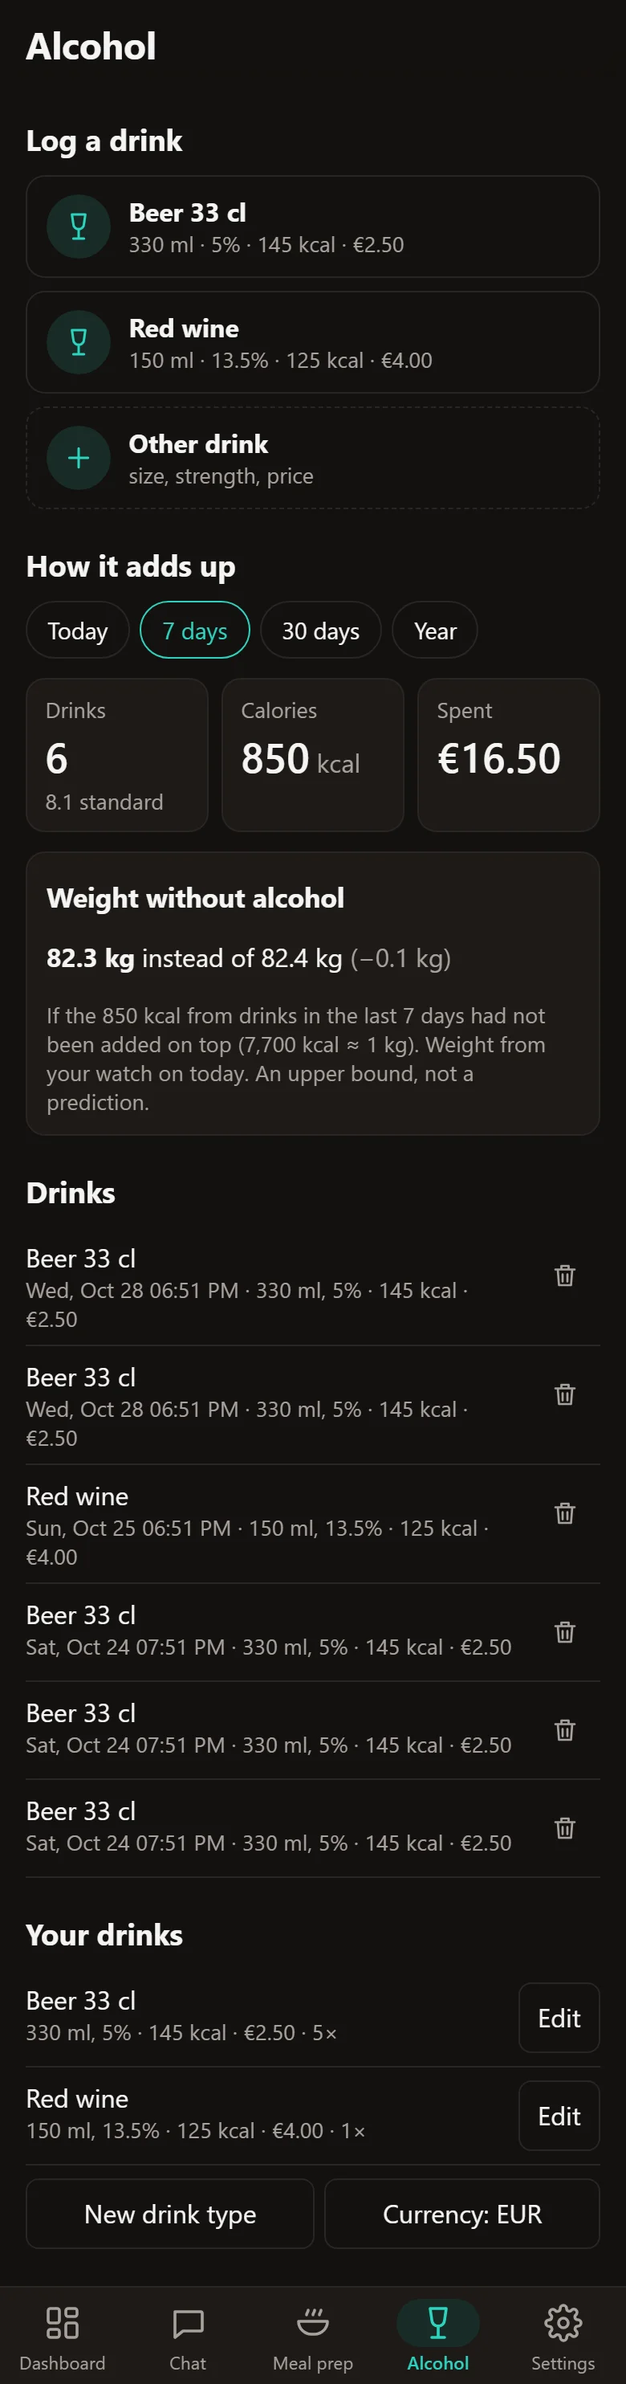
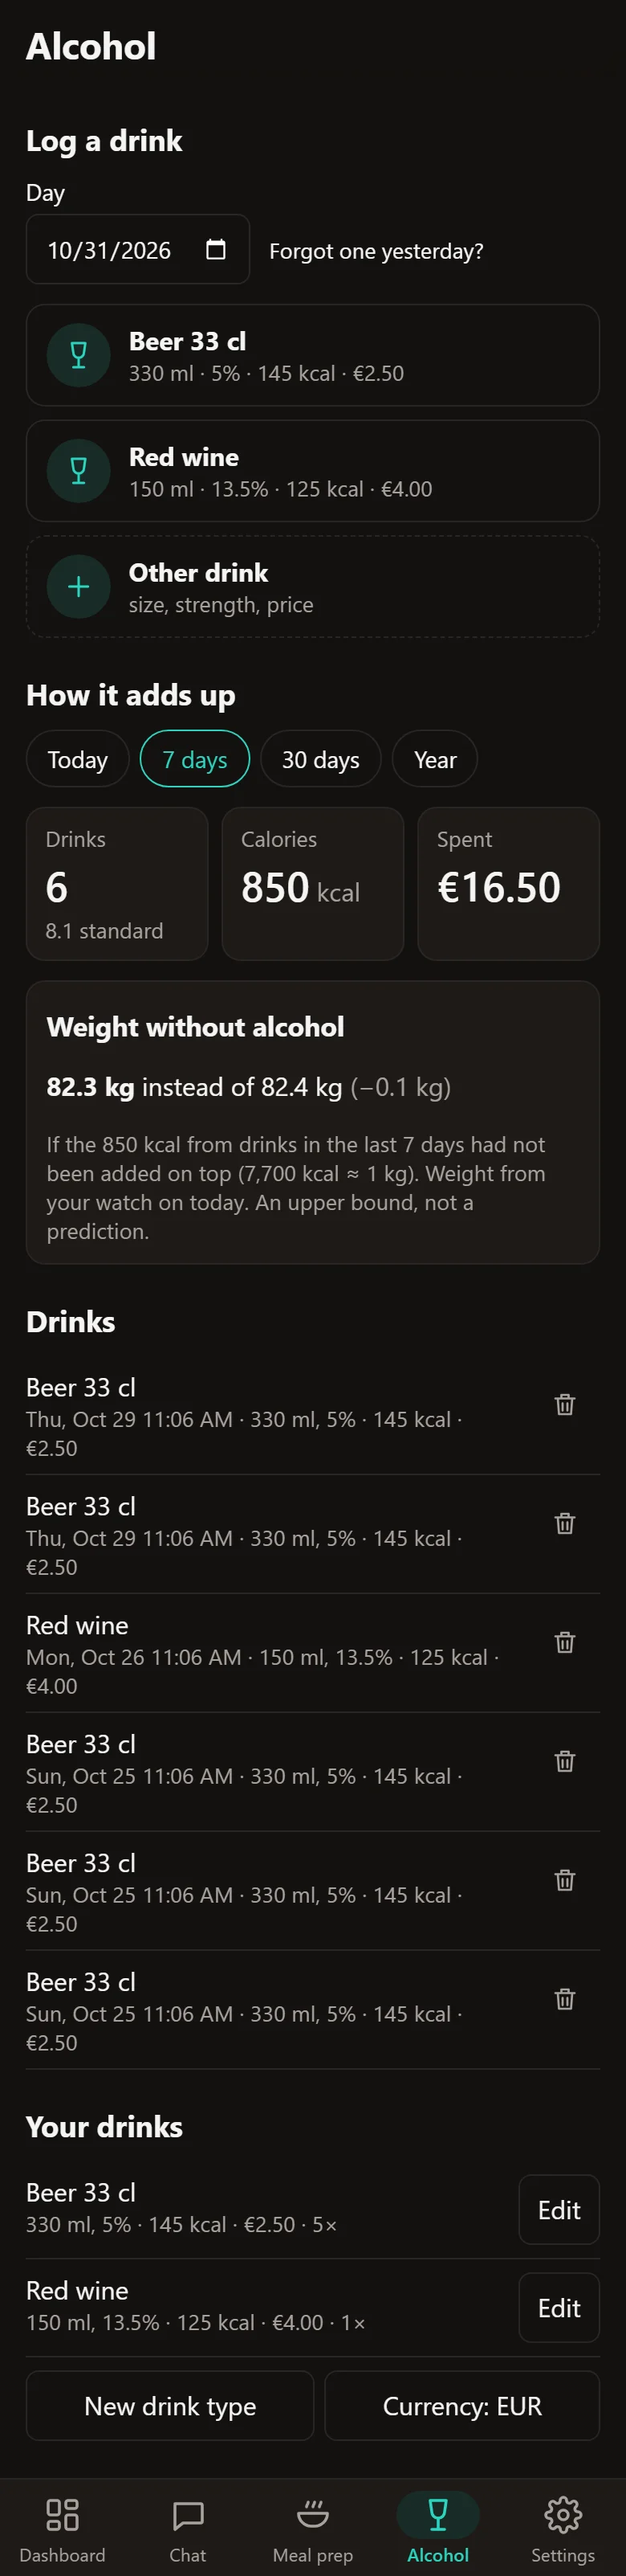
Alcohol: log a drink for an earlier day
A Day picker above the drink tiles (with a "Forgot one yesterday?" shortcut)
sets which day the one-tap tiles and Other drink log for. An earlier day
asks for a time (20:00 by default) and the buttons, labels and messages
name the day; picking one widens a "Today" list to 7 days so the drink shows.

diff --git a/src/screens/alcohol/AlcoholView.tsx b/src/screens/alcohol/AlcoholView.tsx
@@ -1,5 +1,5 @@
 import { useCallback, useEffect, useState, type FormEvent } from "react";
-import { addDays } from "../../core/tz";
+import { addDays, localDateTimeToMs } from "../../core/tz";
 import type { SqlDriver } from "../../db/driver";
 import { changeRunner, EditActions, fmtDay, fmtMoney, MsgLine, numOrNull, timeZone, today, type Msg } from "../../ui/common";
 import { StatTile } from "../../ui/charts";
@@ -39,6 +39,8 @@ type Period = (typeof PERIODS)[number]["key"];
 
 const kcal = (n: number) => Math.round(n).toLocaleString();
 const kg = (n: number) => n.toLocaleString(undefined, { minimumFractionDigits: 1, maximumFractionDigits: 1 });
+/** A drink logged for an earlier day lands at this time unless the owner sets another. */
+const EVENING = "20:00";
 const time = (ms: number) => new Date(ms).toLocaleTimeString(undefined, { hour: "2-digit", minute: "2-digit" });
 
 interface TypeDraft {
@@ -121,6 +123,16 @@ export function AlcoholView({ db, version, onChanged }: Props) {
   const [saveAsType, setSaveAsType] = useState(true);
   const [editing, setEditing] = useState<TypeDraft | null>(null);
   const [curInput, setCurInput] = useState<string | null>(null);
+  // The day drinks are logged for: today logs "now", an earlier day logs at the time picked under it.
+  const [day, setDay] = useState(today());
+  const [at, setAt] = useState(EVENING);
+  const isToday = day === today();
+  const forDay = isToday ? "" : ` for ${fmtDay(day)}`;
+  // Picking an earlier day widens a "Today" list to 7 days, so the drink shows up once logged.
+  function pickDay(d: string) {
+    setDay(d);
+    if (d !== today() && period === "today") setPeriod("week");
+  }
 
   const load = useCallback(async () => {
     const to = today();
@@ -140,8 +152,15 @@ export function AlcoholView({ db, version, onChanged }: Props) {
 
   const run = changeRunner({ setMsg, load, onChanged, scope: "alcohol" });
 
+  /** When the drink was had: now for today, otherwise the picked time on the picked day. */
+  function drunkAt(): number | undefined {
+    if (isToday) return undefined;
+    if (day > today()) throw new Error("That day has not happened yet");
+    return localDateTimeToMs(day, at, timeZone()).ms;
+  }
+
   async function quickLog(t: DrinkType) {
-    await run(async () => setLastIds(await logDrink(db, { typeId: t.id, timeZone: timeZone() })), `Logged ${t.name}.`);
+    await run(async () => setLastIds(await logDrink(db, { typeId: t.id, atMs: drunkAt(), timeZone: timeZone() })), `Logged ${t.name}${forDay}.`);
   }
 
   async function logOther(e: FormEvent) {
@@ -152,9 +171,9 @@ export function AlcoholView({ db, version, onChanged }: Props) {
     const ok = await run(
       async () => {
         const typeId = saveAsType ? await saveDrinkType(db, t) : null;
-        setLastIds(await logDrink(db, { ...t, typeId, count: n, timeZone: timeZone() }));
+        setLastIds(await logDrink(db, { ...t, typeId, count: n, atMs: drunkAt(), timeZone: timeZone() }));
       },
-      `Logged ${n} x ${t.name.trim()}${saveAsType ? " and saved the type" : ""}.`,
+      `Logged ${n} x ${t.name.trim()}${forDay}${saveAsType ? " and saved the type" : ""}.`,
     );
     if (ok) {
       setOther(null);
@@ -171,10 +190,31 @@ export function AlcoholView({ db, version, onChanged }: Props) {
   return (
     <div>
       <SectionHeader title="Log a drink" />
+      <div className="drink-when">
+        <label>
+          Day
+          <input type="date" value={day} max={today()} onChange={(e) => pickDay(e.target.value || today())} />
+        </label>
+        {isToday ? (
+          <button type="button" className="link small" onClick={() => pickDay(addDays(today(), -1))}>
+            Forgot one yesterday?
+          </button>
+        ) : (
+          <>
+            <label>
+              Time
+              <input type="time" value={at} onChange={(e) => setAt(e.target.value || EVENING)} />
+            </label>
+            <button type="button" className="link small" onClick={() => pickDay(today())}>
+              Back to today
+            </button>
+          </>
+        )}
+      </div>
       {types.length === 0 && <p className="muted small">Log a drink once and save it: it gets a one-tap button here.</p>}
       <div className="drink-picks">
         {types.map((d) => (
-          <button key={d.id} className="drink-pick secondary" onClick={() => quickLog(d)} aria-label={`Log one ${d.name}`}>
+          <button key={d.id} className="drink-pick secondary" onClick={() => quickLog(d)} aria-label={`Log one ${d.name}${forDay}`}>
             <span className="quick-icon">
               <Icon name="alcohol" size={20} />
             </span>
@@ -213,7 +253,7 @@ export function AlcoholView({ db, version, onChanged }: Props) {
             </label>
           </div>
           <div className="actions">
-            <button type="submit">Log</button>
+            <button type="submit">Log{forDay}</button>
             <button type="button" className="secondary" onClick={() => setOther(null)}>
               Cancel
             </button>

diff --git a/src/screens/styles.css b/src/screens/styles.css
@@ -322,6 +322,17 @@ input.qty.wide {
 .suggestion.dim {
   opacity: 0.7;
 }
+/* Which day the drink taps log for: day (and time for an earlier day) on one line, wrapping on a narrow phone. */
+.drink-when {
+  display: flex;
+  flex-wrap: wrap;
+  align-items: flex-end;
+  gap: 0.5rem 0.75rem;
+  margin-bottom: 0.75rem;
+}
+.drink-when .link {
+  min-height: 44px;
+}
 /* Saved drinks as tiles to log one with a tap: name first, size and strength under it. */
 .drink-picks {
   display: grid;
